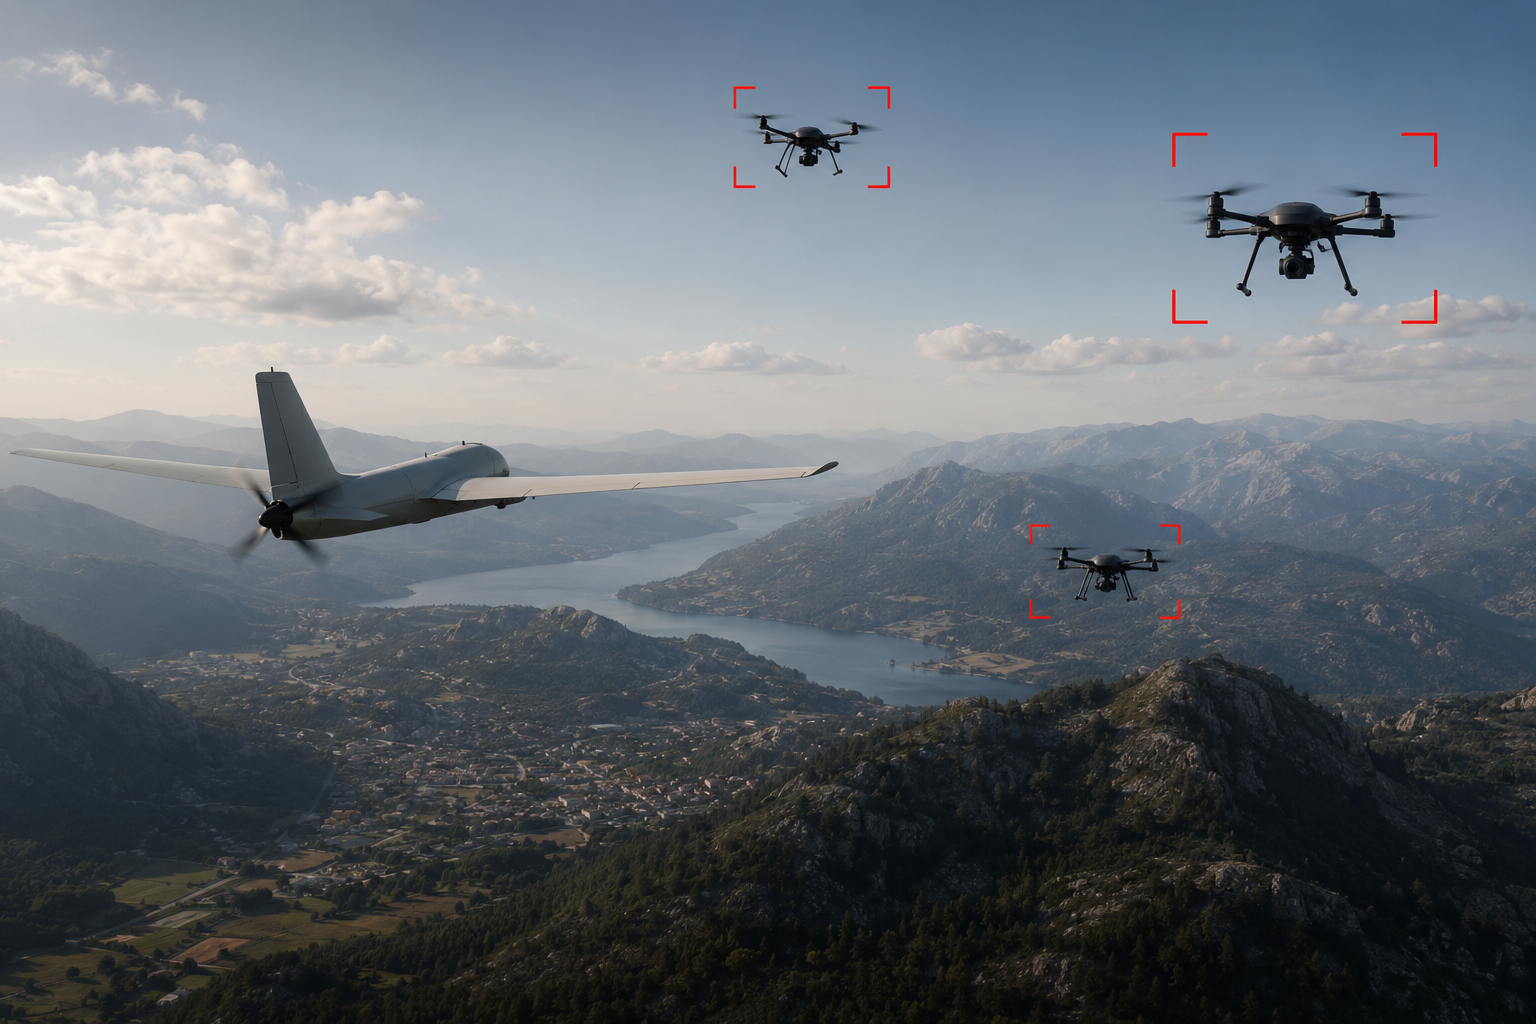
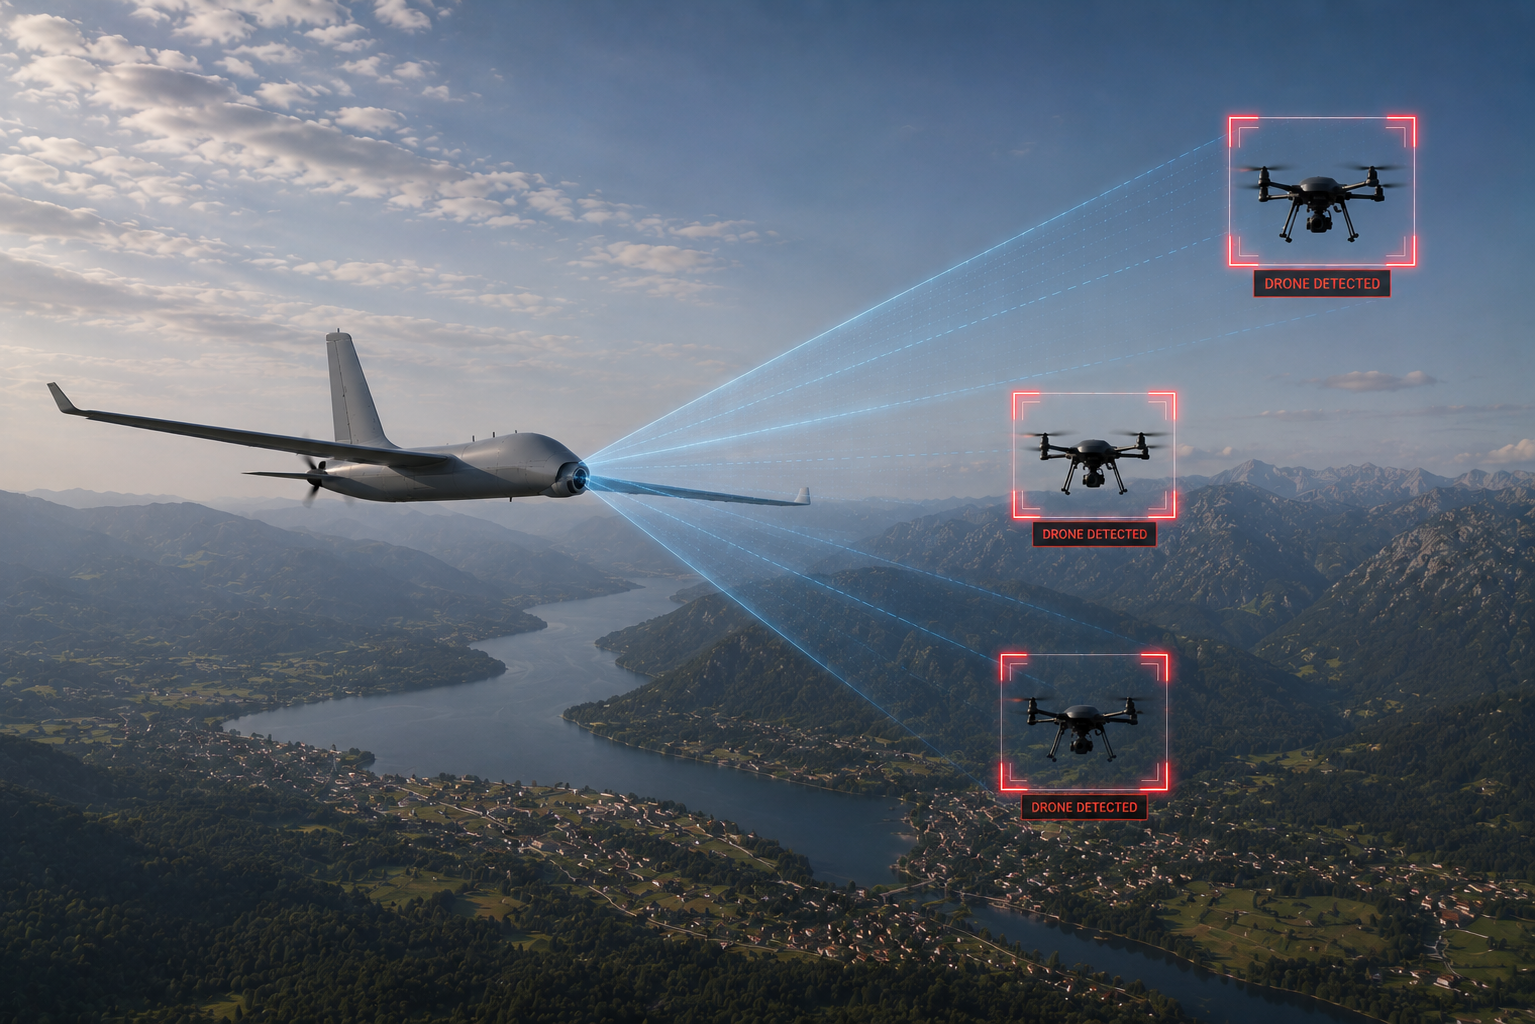
ground defense builder section image added, mission statement changed

diff --git a/website.jsx b/website.jsx
@@ -9,14 +9,15 @@ import {
 } from "lucide-react";
 import TopBar from "./src/components/TopBar.jsx";
 import droneMakerHomepageImage from "./drone_maker_homepage.png";
+import groundDefenseHomepageImage from "./ground_defense_homepage.png";
 
 const audienceSections = [
   {
     id: "drone-makers",
     path: "/solutions/drone-makers",
     eyebrow: "For Drone Makers",
-    title: "Add NVIDIA-Powered Vision To Your Drone Platform",
-    text: "Argentav Vision helps drone manufacturers integrate onboard detection, tracking, and scene understanding into aircraft that need reliable performance at the edge.",
+    title: "Add Argentav Vision To Your Drone Platform",
+    text: "Argentav helps drone manufacturers integrate onboard detection, tracking, and scene understanding into aircraft that need reliable performance at the edge.",
     highlights: [
       "Run onboard on NVIDIA hardware for low-latency decisions.",
       "Support payload teams with vision modules ready for integration.",
@@ -31,20 +32,22 @@ const audienceSections = [
     path: "/solutions/ground-defense",
     eyebrow: "For Ground Defense Builders",
     title: "AI Vision For Ground Defense Systems",
-    text: "Argentav Vision gives system builders a software layer for persistent detection, sensor fusion workflows, and fast alerting across fixed or mobile ground defense deployments.",
+    text: "Argentav gives system builders a software layer for persistent detection, sensor fusion workflows, and fast alerting across fixed or mobile ground defense deployments.",
     highlights: [
       "Detect and classify aerial and ground threats in real time.",
       "Feed actionable outputs into defense control and monitoring systems.",
       "Scale across distributed nodes with a consistent software stack.",
     ],
     icon: Crosshair,
+    image: groundDefenseHomepageImage,
+    imageAlt: "Ground defense vision system interface",
   },
   {
     id: "civilian-use",
     path: "/solutions/civilian-use",
     eyebrow: "For Civilian Use",
     title: "AI Vision For Commercial and Public Safety Operations",
-    text: "Argentav Vision also supports civilian teams that need dependable monitoring for infrastructure, site security, inspection, and emergency response scenarios.",
+    text: "Argentav also supports civilian teams that need dependable monitoring for infrastructure, site security, inspection, and emergency response scenarios.",
     highlights: [
       "Monitor sensitive facilities and critical infrastructure more efficiently.",
       "Improve situational awareness for inspection and response teams.",
@@ -118,12 +121,10 @@ export default function App() {
             className="max-w-4xl"
           >
             <h1 className="mt-4 max-w-4xl font-['Sora'] text-5xl font-extrabold leading-[0.95] tracking-tight text-black md:text-7xl">
-              Detect Drones In The Sky.
-              <br />
-              Track Targets On The Ground.
+              Protect what matters.
             </h1>
-            <p className="mt-6 max-w-2xl text-xl leading-9 text-blue-900 md:text-2xl">
-              Argentav Vision is a mission-ready software solution built to run on NVIDIA hardware.
+            <p className="mt-6 max-w-3xl font-['Sora'] text-3xl font-bold leading-tight text-blue-900 md:text-5xl">
+              Affordable AI vision software for drone detection and ground tracking.
             </p>
             <div className="mt-8 flex flex-wrap gap-4">
               <a
@@ -148,7 +149,7 @@ export default function App() {
         <section className="mx-auto mt-10 w-full max-w-7xl px-6 lg:px-8">
           <SectionHeader
             title="Built For The Teams Bringing Vision Systems Into The Field"
-            text="Whether you are building drones, strengthening ground defense systems, or deploying civilian monitoring solutions, Argentav Vision delivers software designed for fast detection, dependable performance, and real-world operations."
+            text="Whether you are building drones, strengthening ground defense systems, or deploying civilian monitoring solutions, Argentav delivers software designed for fast detection, dependable performance, and real-world operations."
           />
 
           <div className="mt-8 space-y-6">
@@ -162,8 +163,8 @@ export default function App() {
                 transition={{ delay: index * 0.08, duration: 0.45 }}
                 className="section-block solution-card rounded-2xl p-6 md:p-8"
               >
-                <div className="grid gap-8 lg:grid-cols-[1.2fr_0.8fr] lg:items-center">
-                  <div>
+                <div className="grid gap-8 lg:grid-cols-[1.1fr_0.9fr] lg:items-center">
+                  <div className={image ? "lg:pr-12" : undefined}>
                     <div className="flex items-center gap-3">
                       <div className="flex h-11 w-11 items-center justify-center rounded-lg border border-blue-100 bg-blue-50 text-blue-900">
                         <Icon size={20} />
@@ -180,11 +181,11 @@ export default function App() {
                       <ArrowRight size={16} />
                     </Link>
                   </div>
-                  <div className="flex items-center justify-center overflow-hidden rounded-xl text-center">
+                  <div className="flex items-center justify-center rounded-xl text-center">
                     {image ? (
-                      <img src={image} alt={imageAlt} className="w-full rounded-xl border border-slate-300 lg:w-[112%] lg:max-w-none lg:-translate-x-4" />
+                      <img src={image} alt={imageAlt} className="w-full rounded-xl border border-slate-300 object-contain lg:w-[110%] lg:max-w-none lg:-translate-x-6" />
                     ) : (
-                      <div className="flex min-h-[340px] w-full items-center justify-center rounded-xl border border-slate-300 bg-white px-4">
+                      <div className="flex aspect-[1535/1024] w-full items-center justify-center rounded-xl border border-slate-300 bg-white px-4 lg:w-[110%] lg:max-w-none lg:-translate-x-6">
                         <p className="font-['Sora'] text-sm uppercase tracking-[0.16em] text-slate-400 md:text-base">
                           Image Placeholder
                         </p>

diff --git a/index.html b/index.html
@@ -3,10 +3,10 @@
   <head>
     <meta charset="UTF-8" />
     <meta name="viewport" content="width=device-width, initial-scale=1.0" />
-    <title>Argentav Vision | Autonomous Detection</title>
+    <title>Argentav | Autonomous Detection</title>
     <meta
       name="description"
-      content="Argentav Vision delivers AI-powered airborne and ground target detection for defense operations with real-time awareness and mission-ready analytics."
+      content="Argentav delivers AI-powered airborne and ground target detection for defense operations with real-time awareness and mission-ready analytics."
     />
   </head>
   <body>

diff --git a/src/components/TopBar.jsx b/src/components/TopBar.jsx
@@ -56,8 +56,8 @@ export default function TopBar({ onHomeSectionClick }) {
     <header className="sticky top-0 z-40 w-full border-b border-slate-200 bg-white/90 shadow-[0_1px_12px_rgba(15,23,42,0.06)] backdrop-blur-md">
       <div className="mx-auto flex max-w-7xl flex-col gap-3 px-6 py-3 md:flex-row md:items-center md:justify-between lg:px-8">
         <div className="flex items-center gap-3 overflow-visible">
-          <img src={logoImage} alt="Argentav Vision logo" className="h-20 w-20 scale-110 object-contain md:h-20 md:w-20 md:scale-125" />
-          <div className="ml-1 font-['Sora'] text-lg font-semibold tracking-[0.06em] text-black md:ml-2 md:text-2xl">Argentav Vision</div>
+          <img src={logoImage} alt="Argentav logo" className="h-20 w-20 scale-110 object-contain md:h-20 md:w-20 md:scale-125" />
+          <div className="ml-1 font-['Sora'] text-lg font-semibold tracking-[0.06em] text-black md:ml-2 md:text-2xl">Argentav</div>
         </div>
         <nav className="flex flex-wrap gap-2 text-xs md:text-sm">
           <div className="group relative">